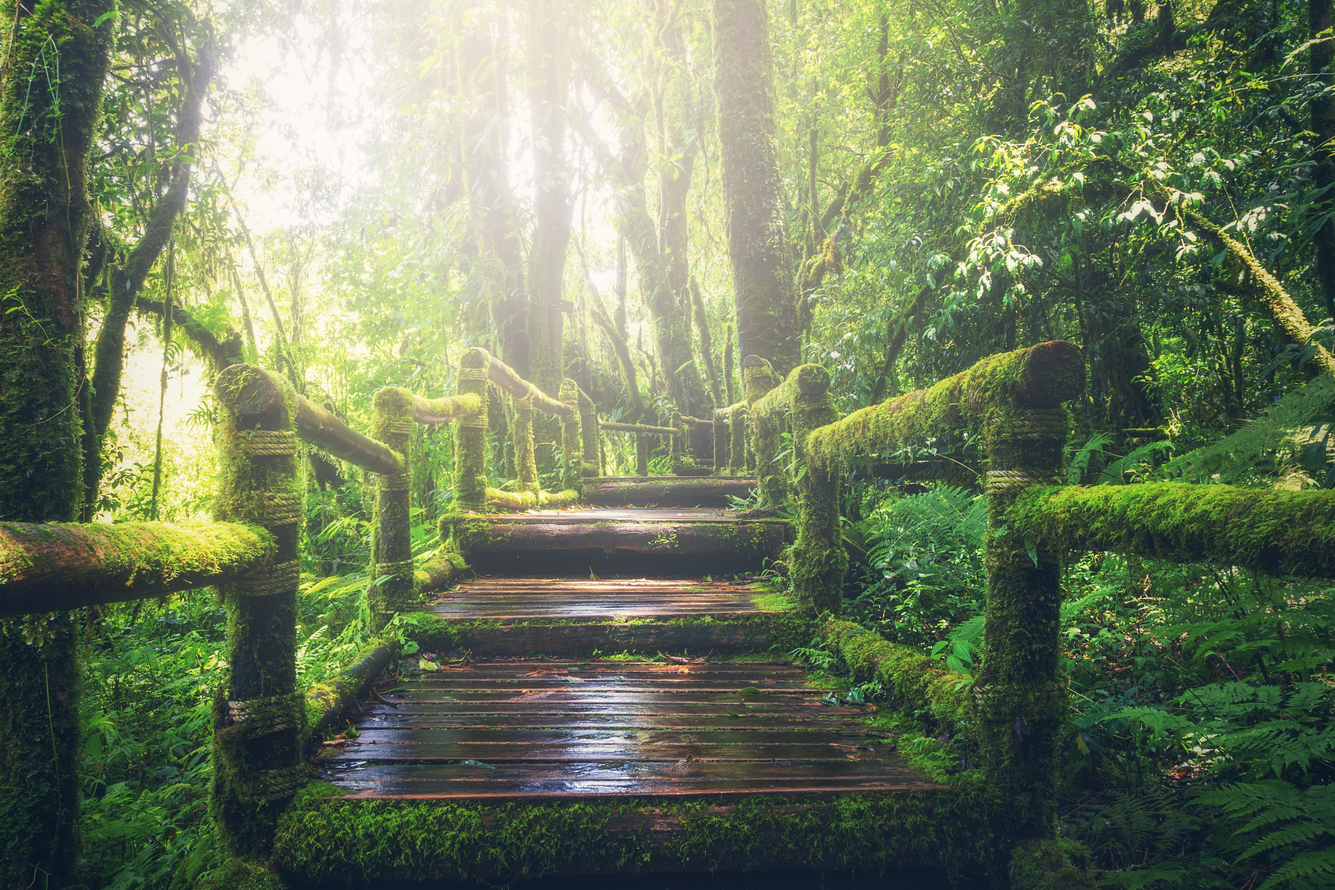
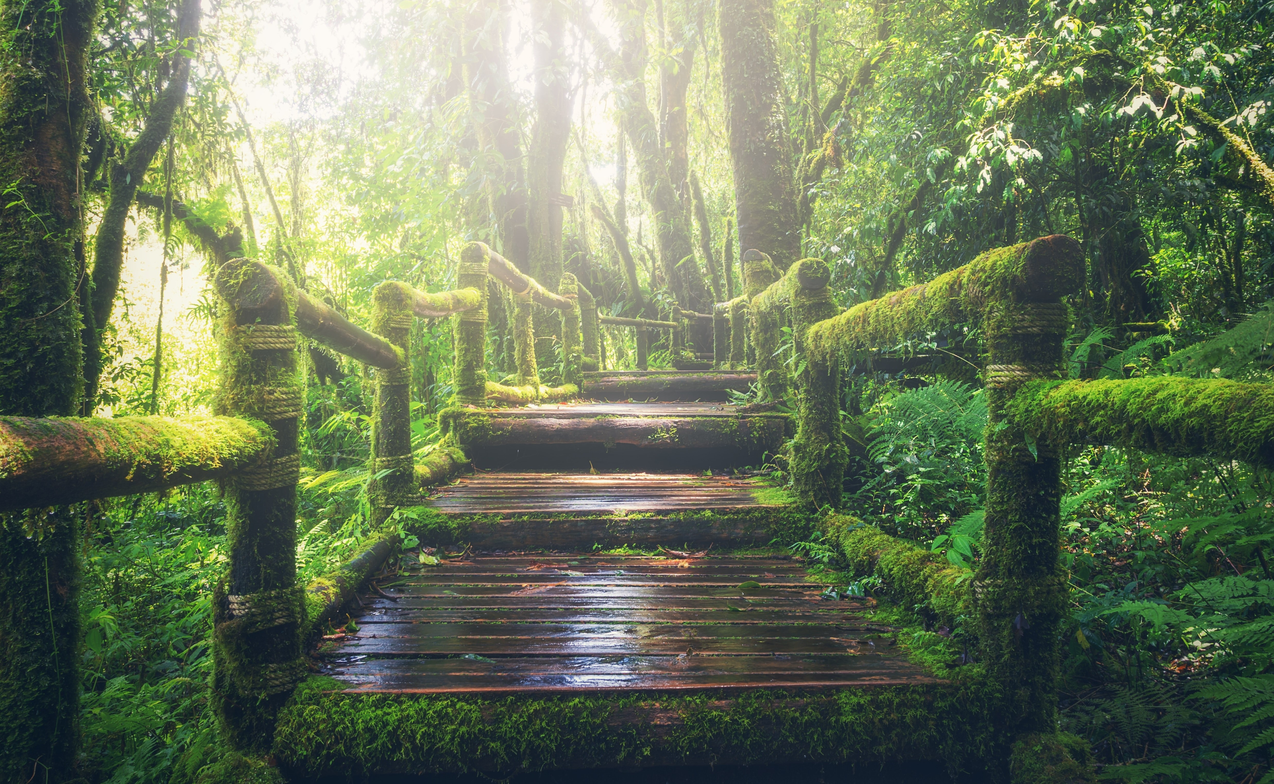
finished signup signin pages

diff --git a/src/Welcome.js b/src/Welcome.js
@@ -29,12 +29,12 @@ export default class Welcome extends Component {
                         <div className='title'>
                             <h1> Welcome to the Oregon Environmental Data Initiative </h1>              
                         </div>
-                        <section className='welcome_message'> 
+                        <div className='welcome-message'> 
                             With so much at stake, the world needs answers. Our planet is our one home, our one place to live, survive, thrive, love and to heal. What can we do to help our home heal? What can we do to make things right? What do we need to accomplish to allow for our children to enjoy a world as beautiful as the one that we have been given. These are the questions we are asking you and this is a place where we hope you can find some of those answers.
-                        </section>
+                        </div>
                         
-                        <div>
-                            <button onClick={this.handleClick}>Enter</button>
+                        <div className="button-fun">
+                            <button className="button-presser" onClick={this.handleClick}>Enter</button>
                         </div>
 
                     </div>

diff --git a/src/Login.js b/src/Login.js
@@ -47,7 +47,7 @@ export default class Login extends Component {
                     <Navigation />
                 </div>
 
-                <img className="earth" src={bridge} type='image' alt="forest bridge" />
+                <img className="bridged" src={bridge} type='image' alt="forest bridge" />
 
     {/* ----------------------------------------------------------------------- */}
                 <div className="main-container"> 

diff --git a/src/SignLogin.css b/src/SignLogin.css
@@ -47,7 +47,6 @@ button {
 }
 
 .container{
-   
     margin: 0;
     position: absolute;
     top: 50%;
@@ -72,8 +71,7 @@ button {
 
 .active {
     background-color: rgba(17, 114, 17, 0.678);
-   
-  }
+}
 
 .signup-form,
 .login-form{
@@ -94,11 +92,9 @@ button {
     top: 50%;
 }
 
-.earth { 
+.bridged { 
     z-index: -1;
+    width: 100%;
+    position: fixed
 }    
 
-.background :img {
-    width: 100%;
-    height: 100%;
-}

diff --git a/src/SignUp.js b/src/SignUp.js
@@ -64,7 +64,7 @@ export default class SignUp extends Component {
     render() {
         return (
             <section className="background">
-                <img className="earth" src={bridge} type='image' alt="forest bridge" />
+                <img className="bridged" src={bridge} type='image' alt="forest bridge" />
 
                 <div>
                     <Navigation />

diff --git a/src/Welcome.css b/src/Welcome.css
@@ -29,6 +29,10 @@
     border-radius: 25px;
 }
 
+.welcome-message {
+font-size: 30px;
+}
+
 .nav {
     position: fixed;
 } 
@@ -36,4 +40,16 @@
 .title { 
     font-size: 50px;
     padding: 20px;
+}
+
+.button-fun {
+    display: grid;
+    justify-content: space-around;
+    margin-top: 25px;
+    width: 100%;
+}
+
+.button-presser {
+    width: 200px;
+    border-radius: 5px;
 }

diff --git a/src/Home.js b/src/Home.js
@@ -14,7 +14,7 @@ export default class Home extends Component {
                 <Navigation />
                 <Header />
                 <h1>Welcome home</h1>
-                <Article />
+                
                 <Footer />
             </div>
         )

diff --git a/src/Navigation.css b/src/Navigation.css
@@ -4,7 +4,7 @@
     top: 0;
     width: 100%;
     transition: top 0.3s;
-    height: 60px;
+    height: 50px;
     line-height: 2em;
 }
 
